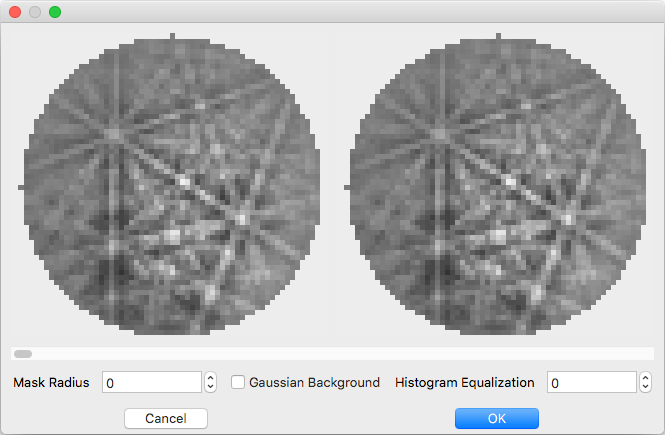
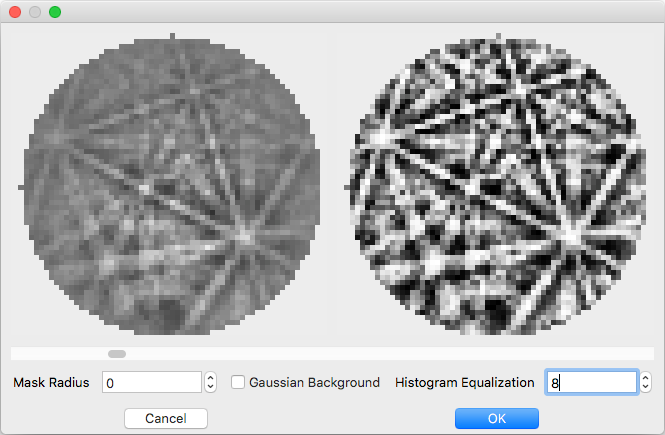
fixed broken image link, missing image crop, and added more image processing in screenshot to make raw vs processed image more clear

diff --git a/documentation/emsphinxebsd.rst b/documentation/emsphinxebsd.rst
@@ -15,7 +15,7 @@ Indexer initialization may take several minutes on the first run as Fourier tran
 
 The main window is split into 3 primary sections as seen in the screenshot below: live indexing result (left), `Parameter Summary Panel`_ (right), and status bar (bottom)
 
-.. image:: images/emsphinxebsd/main_window.png
+.. image:: images/emsphinxebsd/main_win.png
   :width: 600
   :alt: Main Window Screenshot
 
